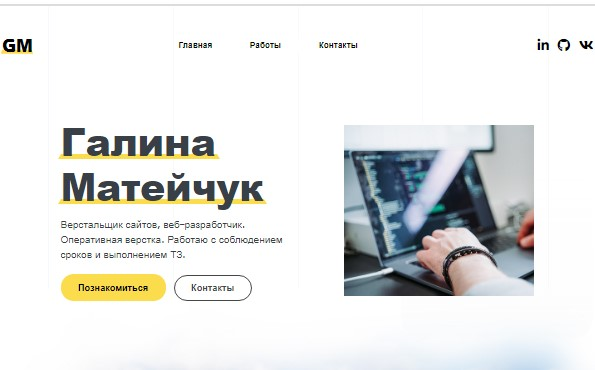
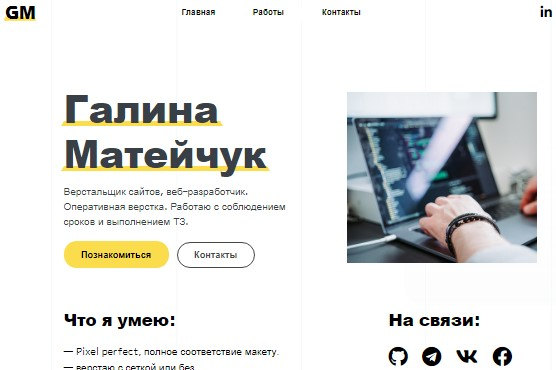
Portfolio - my pics_1

diff --git a/docs/js/main.js b/docs/js/main.js
@@ -73,7 +73,7 @@ $(document).
 
             // nav dots
 
-            $('nav-dots').onePageNav({
+            $('#nav-dots').onePageNav({
                 currentClass: 'active',
                 changeHash: false,
                 scrollSpeed: 750,

diff --git a/docs/css/main.css b/docs/css/main.css
@@ -1060,6 +1060,7 @@ button {
 @media (min-width: 1200px) {
   .site-img {
     margin-bottom: 25px;
+    max-height: 365px;
   }
 }
 .hover-btn {

diff --git a/docs/less/blocks/_site-card.less b/docs/less/blocks/_site-card.less
@@ -62,6 +62,7 @@
 
   @media (min-width: 1200px) {
     margin-bottom: 25px;
+    max-height: 365px;
   }
 }
 
